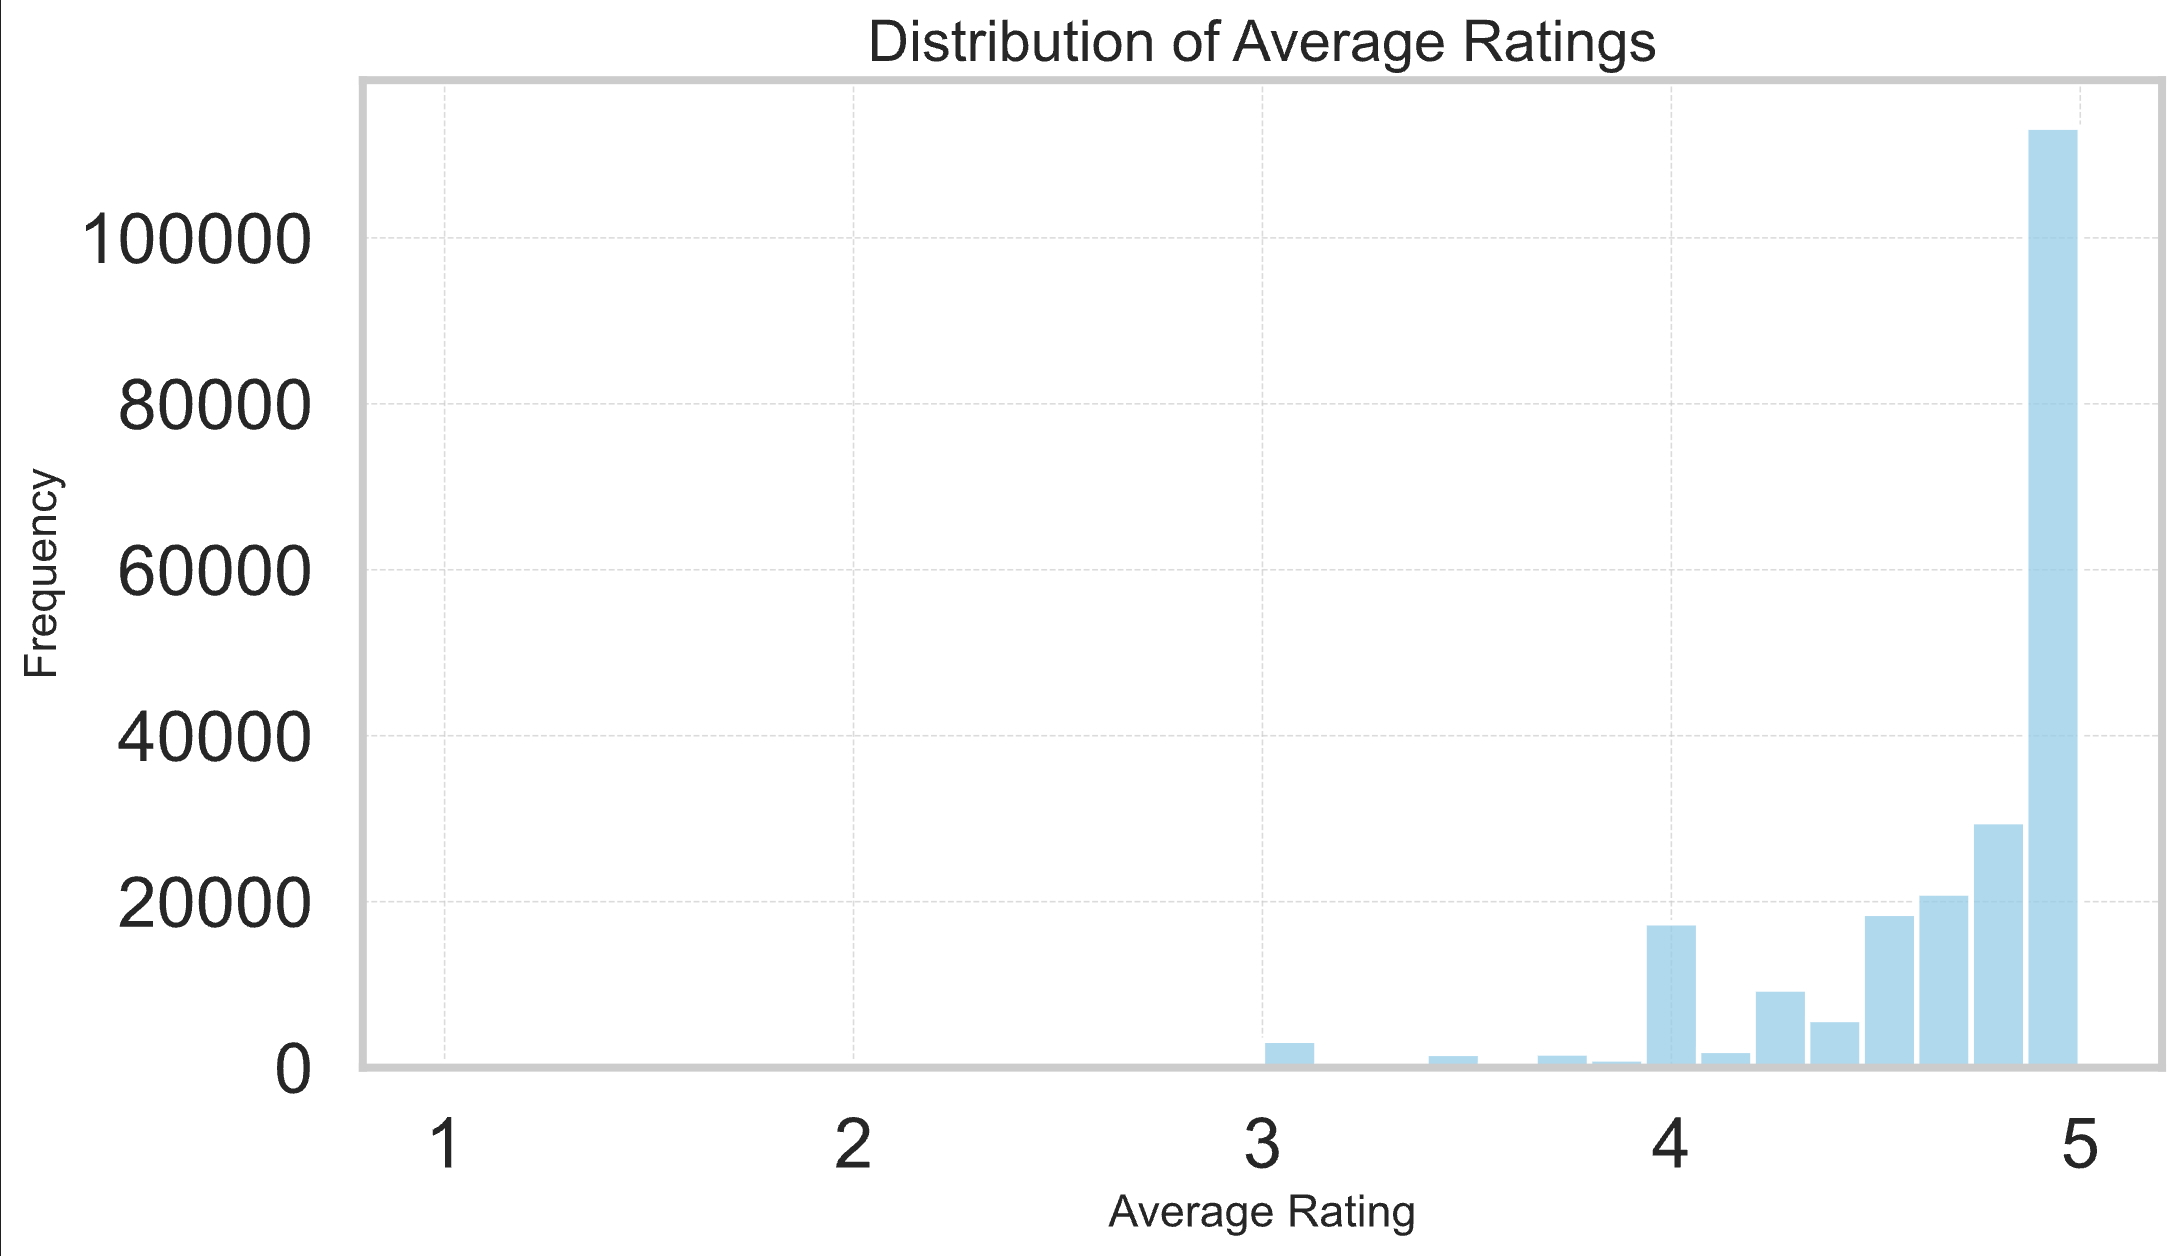
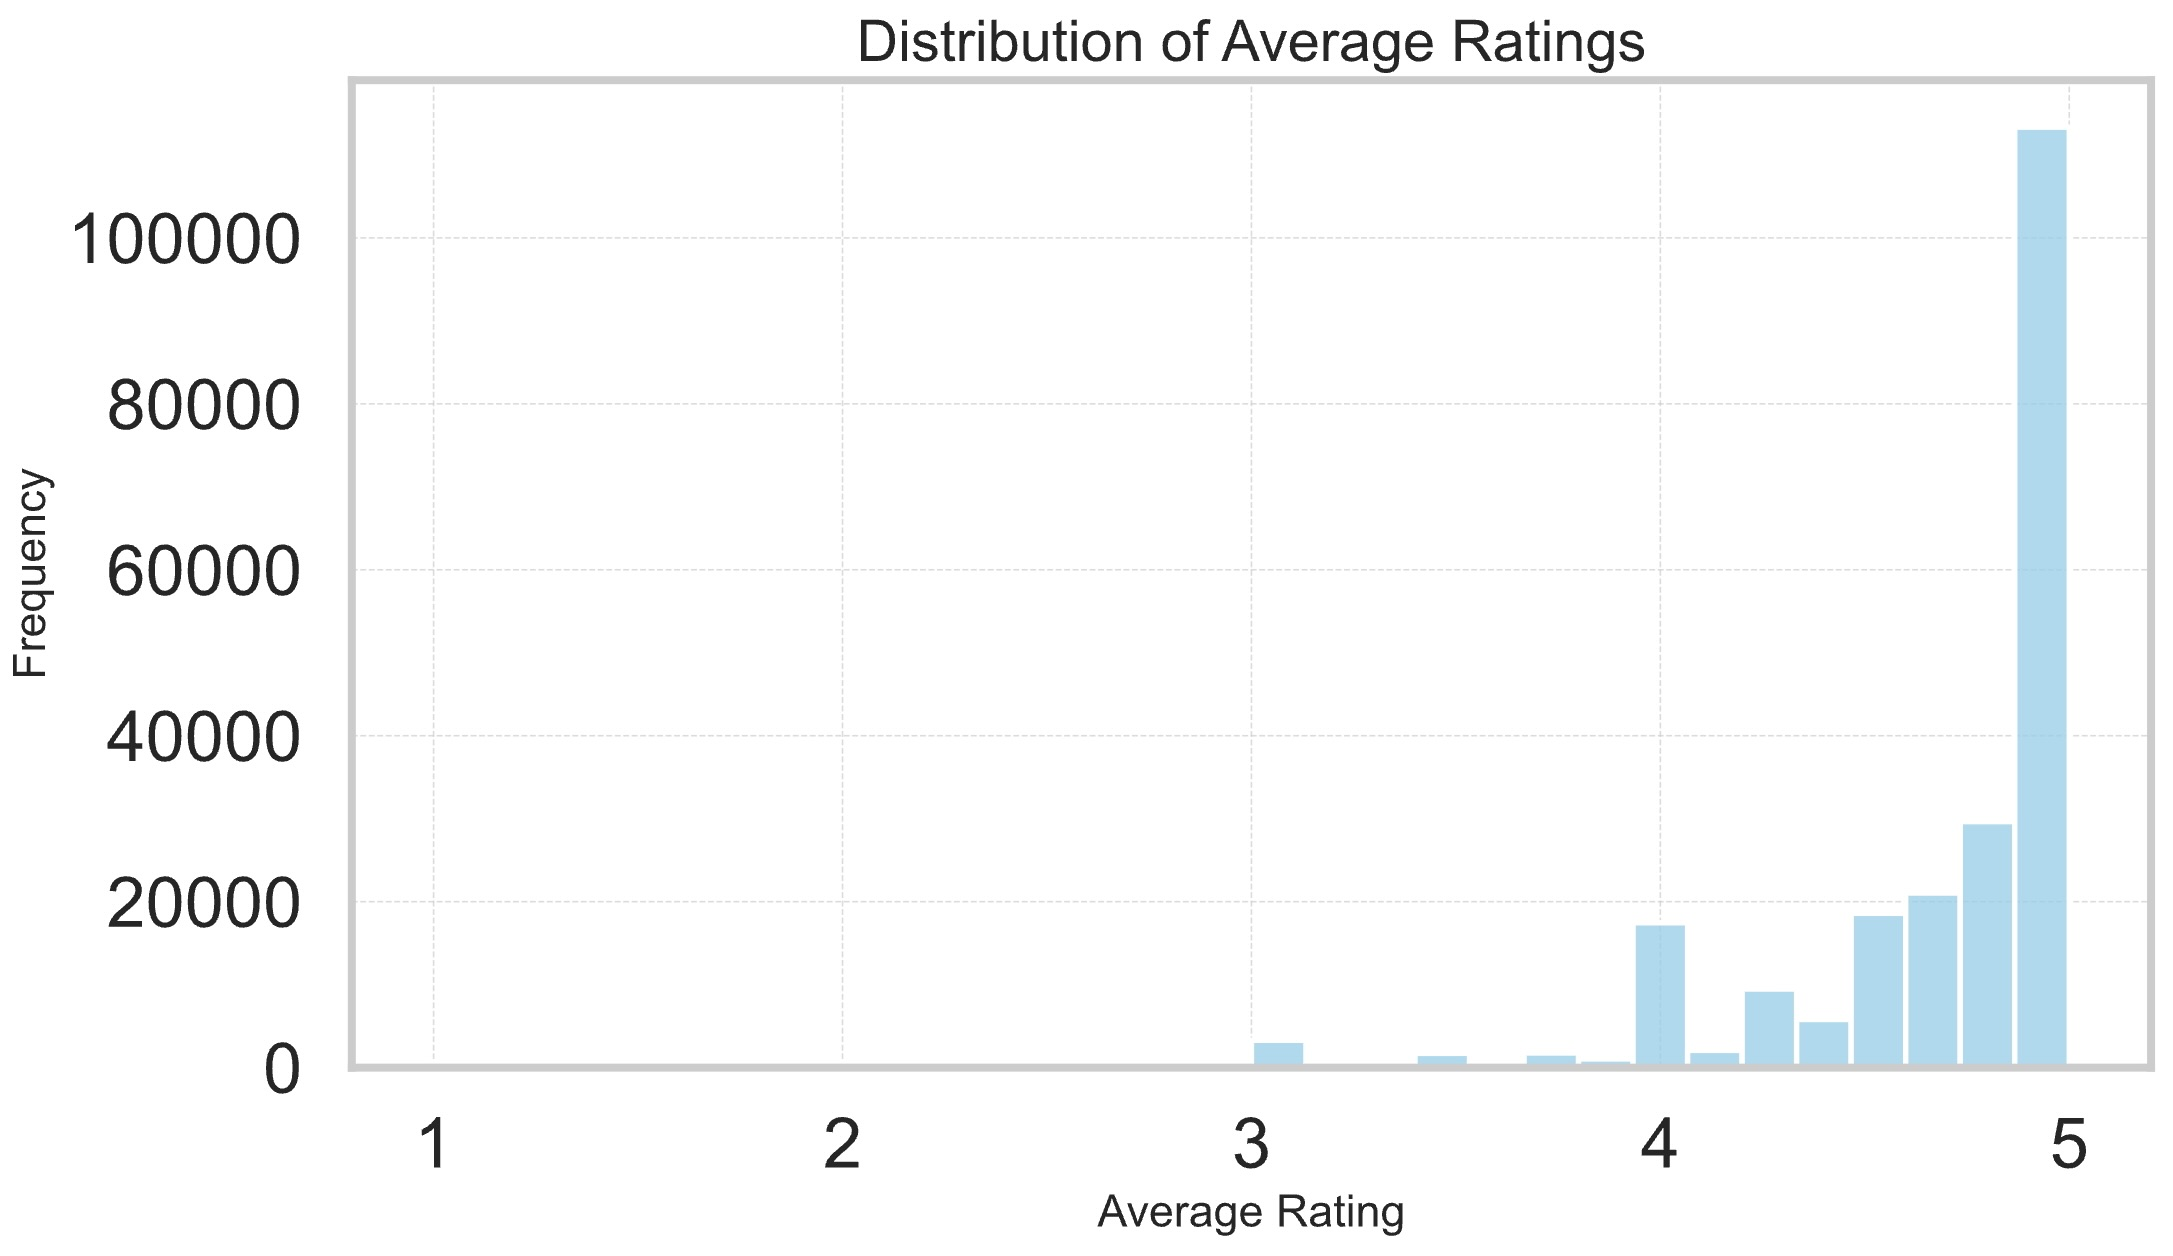
table done

diff --git a/index.html b/index.html
@@ -19,6 +19,14 @@
         h2 {
             color: navy;
         }
+        table {
+            border-collapse: collapse;
+        }
+        th, td {
+            border: 1px solid black;
+            padding: 6px 12px;
+            text-align: left; /* makes both headers and data left-aligned */
+        }
     </style>
 </head>
 <body>
@@ -30,37 +38,29 @@
     The first dataset "RAW_recipes" contains 83782 rows, indicating 83782 recipes and 12 columns providing the following information:
     </p>
 
-    <table border="1" cellpadding="5" cellspacing="0">
-        <tr>
-          <th>Header 1</th>
-          <th>Header 2</th>
-          <th>Header 3</th>
-          <th>Header 4</th>
-          <th>Header 5</th>
-          <th>Header 6</th>
-          <th>Header 7</th>
-          <th>Header 8</th>
-          <th>Header 9</th>
-          <th>Header 10</th>
-          <th>Header 11</th>
-          <th>Header 12</th>
-          <th>Header 13</th>
-        </tr>
-        <tr>
-          <td>Row2 Col1</td>
-          <td>Row2 Col2</td>
-          <td>Row2 Col3</td>
-          <td>Row2 Col4</td>
-          <td>Row2 Col5</td>
-          <td>Row2 Col6</td>
-          <td>Row2 Col7</td>
-          <td>Row2 Col8</td>
-          <td>Row2 Col9</td>
-          <td>Row2 Col10</td>
-          <td>Row2 Col11</td>
-          <td>Row2 Col12</td>
-          <td>Row2 Col13</td>
-        </tr>
+    <table>
+        <thead>
+          <tr>
+            <th>Column</th>
+            <th>Description</th>
+          </tr>
+        </thead>
+        <tbody>
+          <tr><td>name</td><td>Recipe name</td></tr>
+          <tr><td>id</td><td>Recipe ID</td></tr>
+          <tr><td>minutes</td><td>Minutes to prepare recipe</td></tr>
+          <tr><td>contributor_id</td><td>User ID who submitted this recipe</td></tr>
+          <tr><td>submitted</td><td>Date recipe was submitted</td></tr>
+          <tr><td>tags</td><td>Food.com tags for recipe</td></tr>
+          <tr><td>nutrition</td><td>Nutrition information in the form [calories (#), total fat (PDV), sugar (PDV), sodium (PDV), protein (PDV), saturated fat (PDV),
+        carbohydrates (PDV)]; PDV stands for “percentage of daily value”</td></tr>
+          <tr><td>n_steps</td><td>Number of steps in recipe</td></tr>
+          <tr><td>steps</td><td>Text for recipe steps, in order</td></tr>
+          <tr><td>description</td><td>User-provided description</td></tr>
+          <tr><td>ingredients</td><td>Text for recipe ingredients</td></tr>
+          <tr><td>n_ingredients</td><td>Number of ingredients in recipe</td></tr>
+        </tbody>
+      </table>
     
     <p>
 
@@ -70,10 +70,10 @@
 
     <h2>Data Cleaning and Exploratory Data Analysis</h2>
 
-    <img src="images/distribution of cooking time.jpg" alt="distribution of cooking time" width="1000">
-    <img src="images/distribution of average ratings.jpg" alt="distribution of average ratings" width="1000">
-    <img src="images/average rating vs cooking time.jpg" alt="average rating vs cooking time" width="1000">
-    <img src="images/average recipe rating by cooking time bins.jpg" alt="average recipe rating by cooking time bins" width="1000">
+    <img src="images/distribution of cooking time.jpg" alt="distribution of cooking time" width="750">
+    <img src="images/distribution of average ratings.jpg" alt="distribution of average ratings" width="750">
+    <img src="images/average rating vs cooking time.jpg" alt="average rating vs cooking time" width="750">
+    <img src="images/average recipe rating by cooking time bins.jpg" alt="average recipe rating by cooking time bins" width="750">
     
     
     <p>
